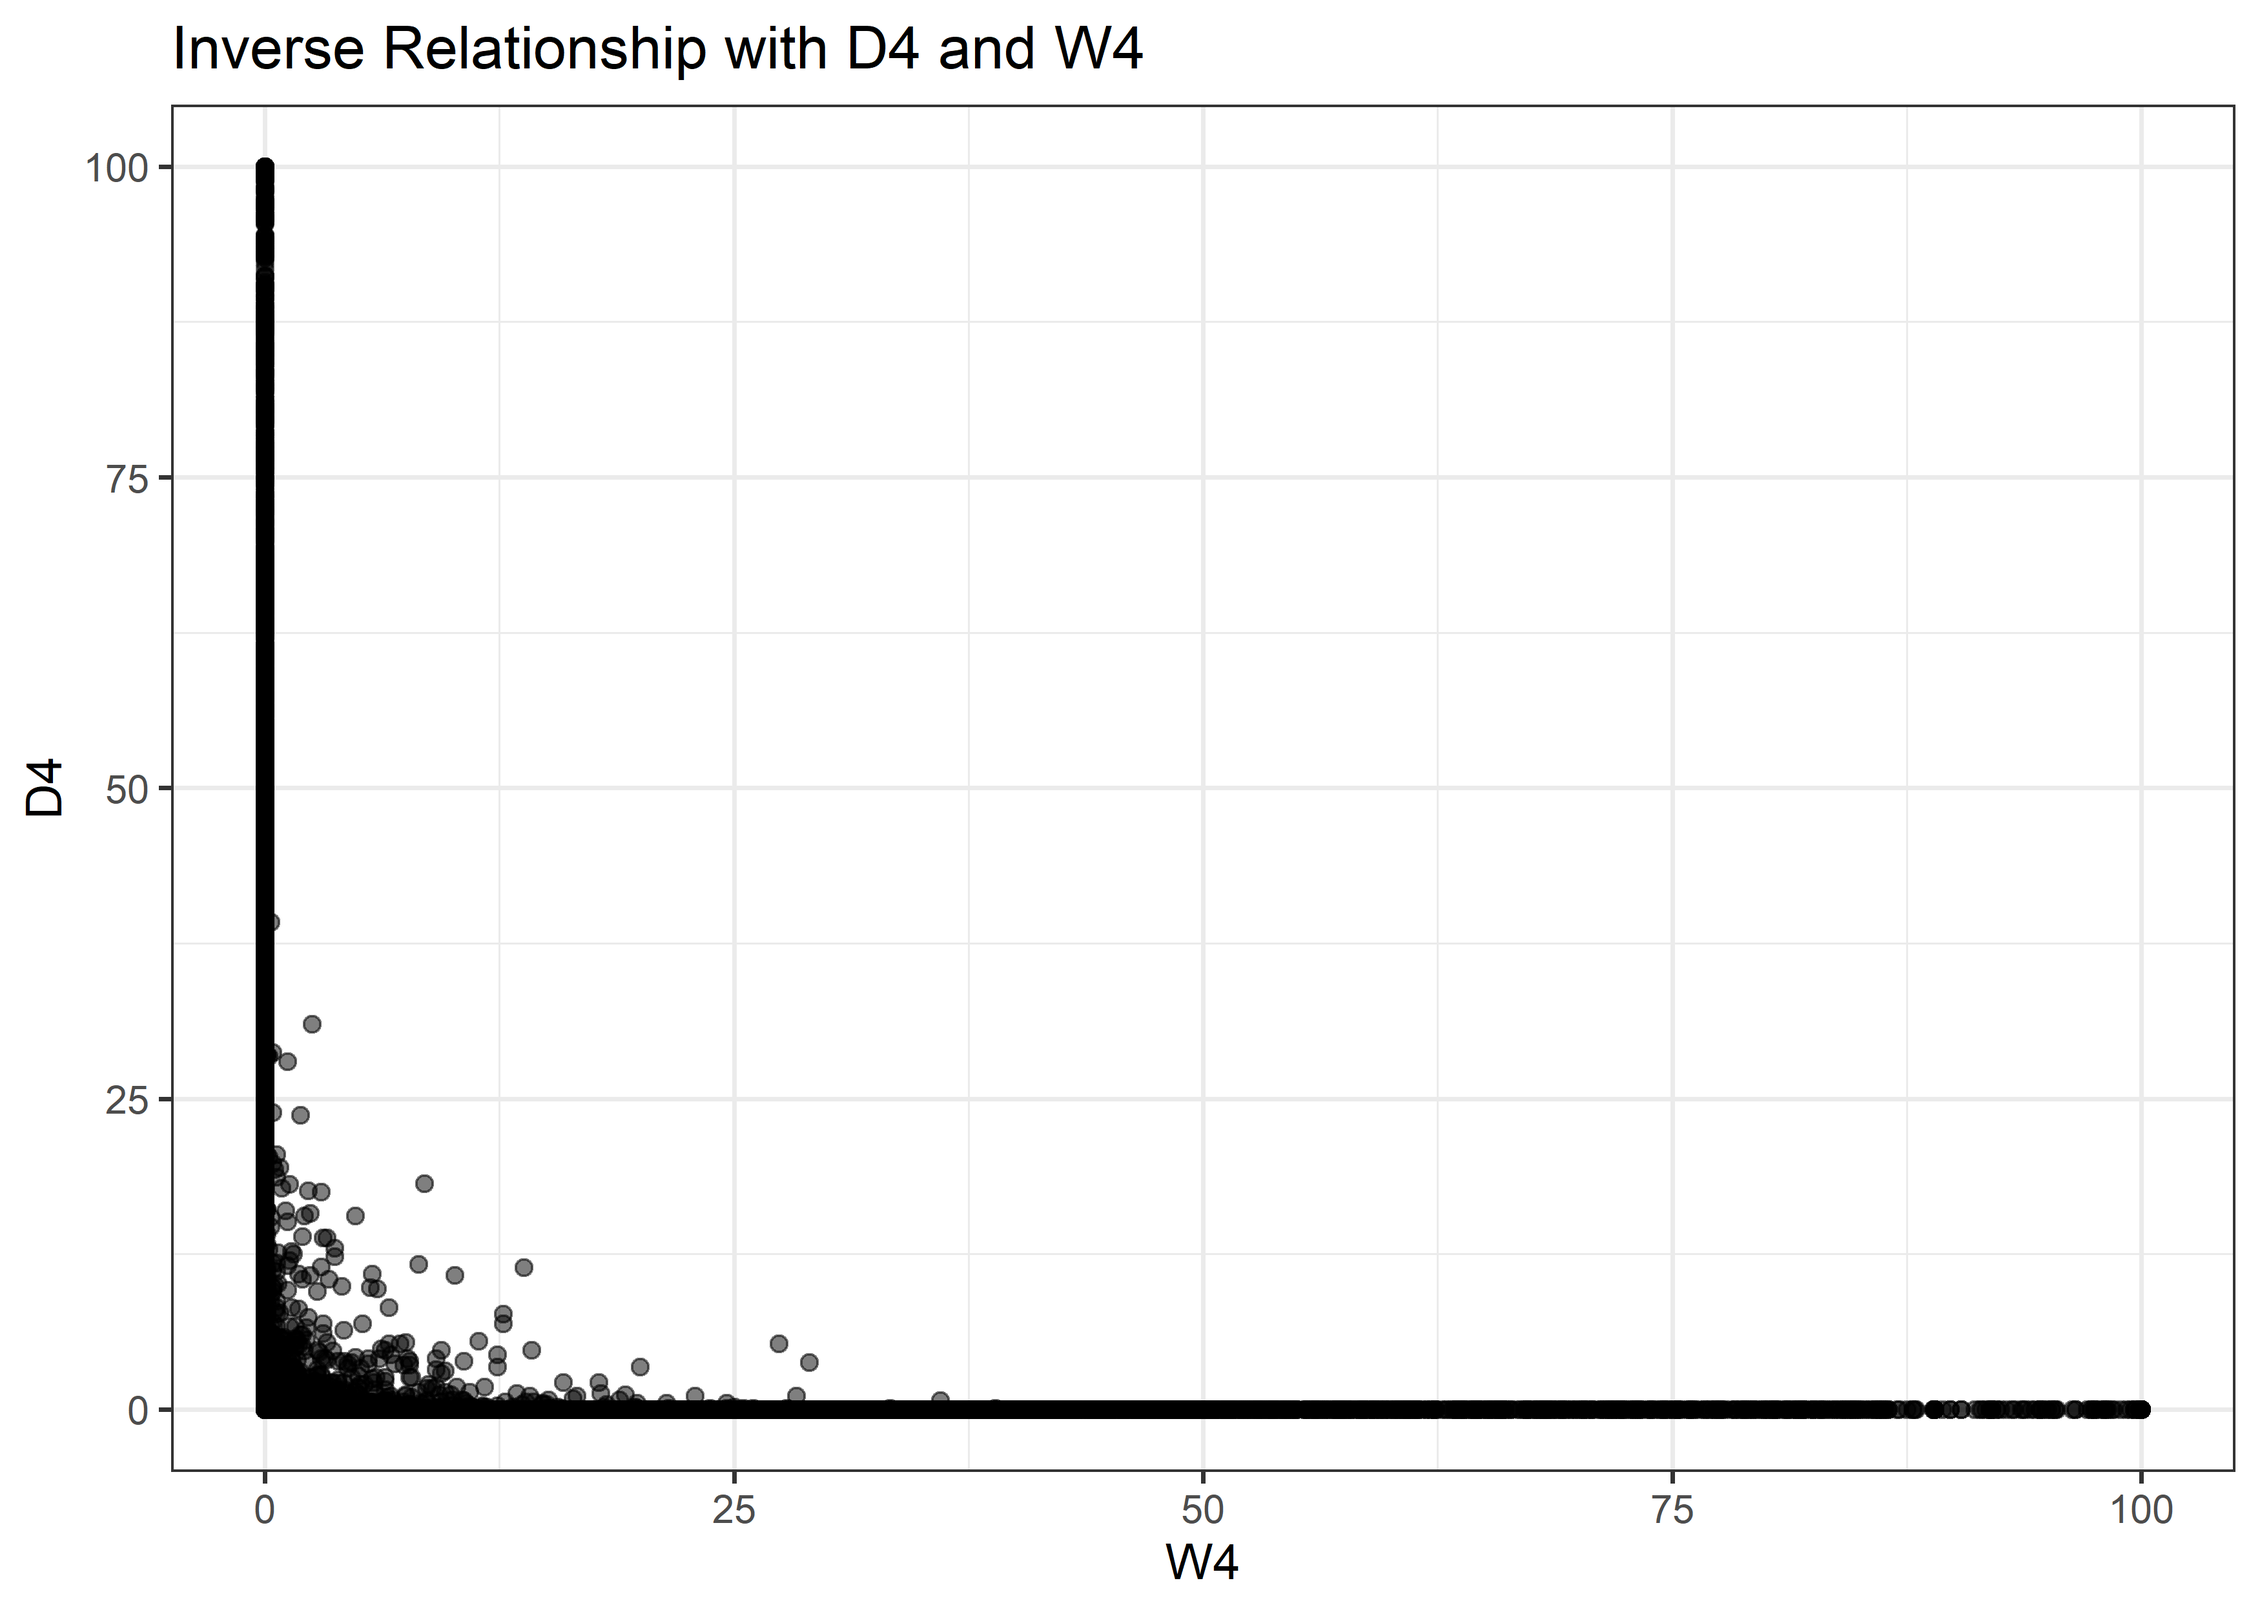
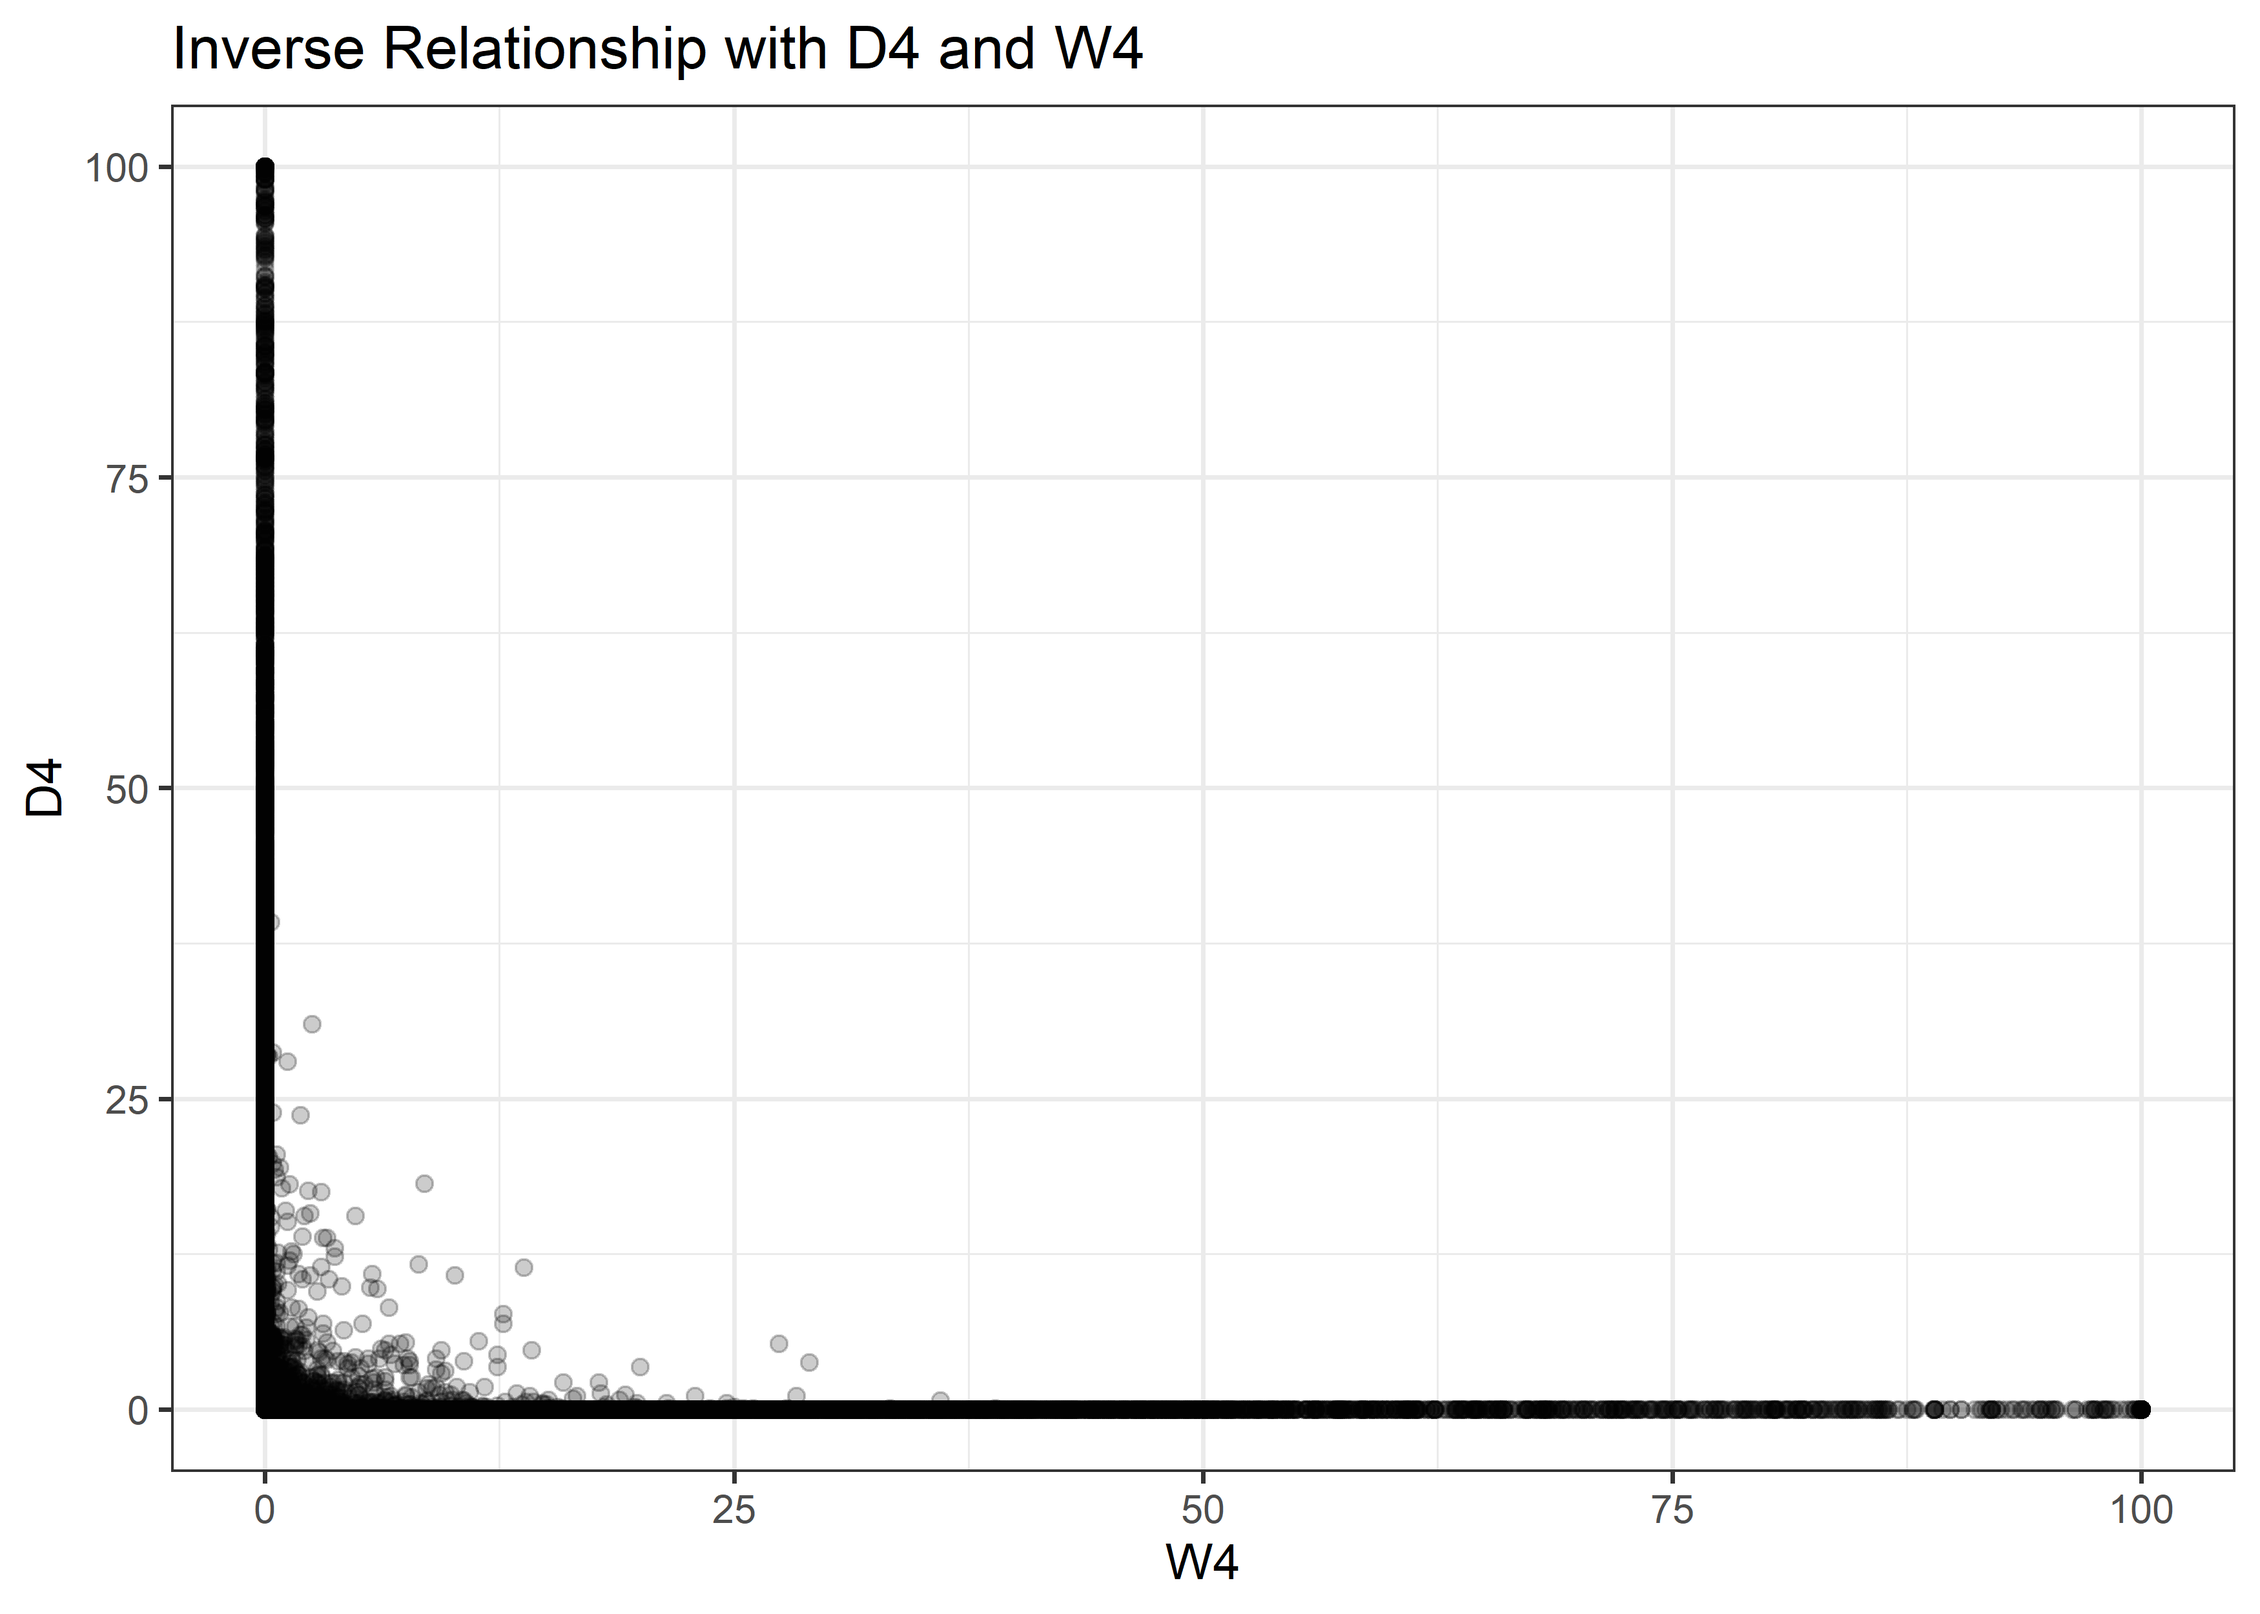
change alpha for first plot

diff --git a/06-14-22/Drought.md b/06-14-22/Drought.md
@@ -105,7 +105,7 @@ drought %>%
 
 ``` r
 drought %>% 
-  ggplot(aes(W4, D4)) + geom_point(alpha = 0.5) +
+  ggplot(aes(W4, D4)) + geom_point(alpha = 0.2) +
   labs(title = "Inverse Relationship with D4 and W4")
 ```
 
